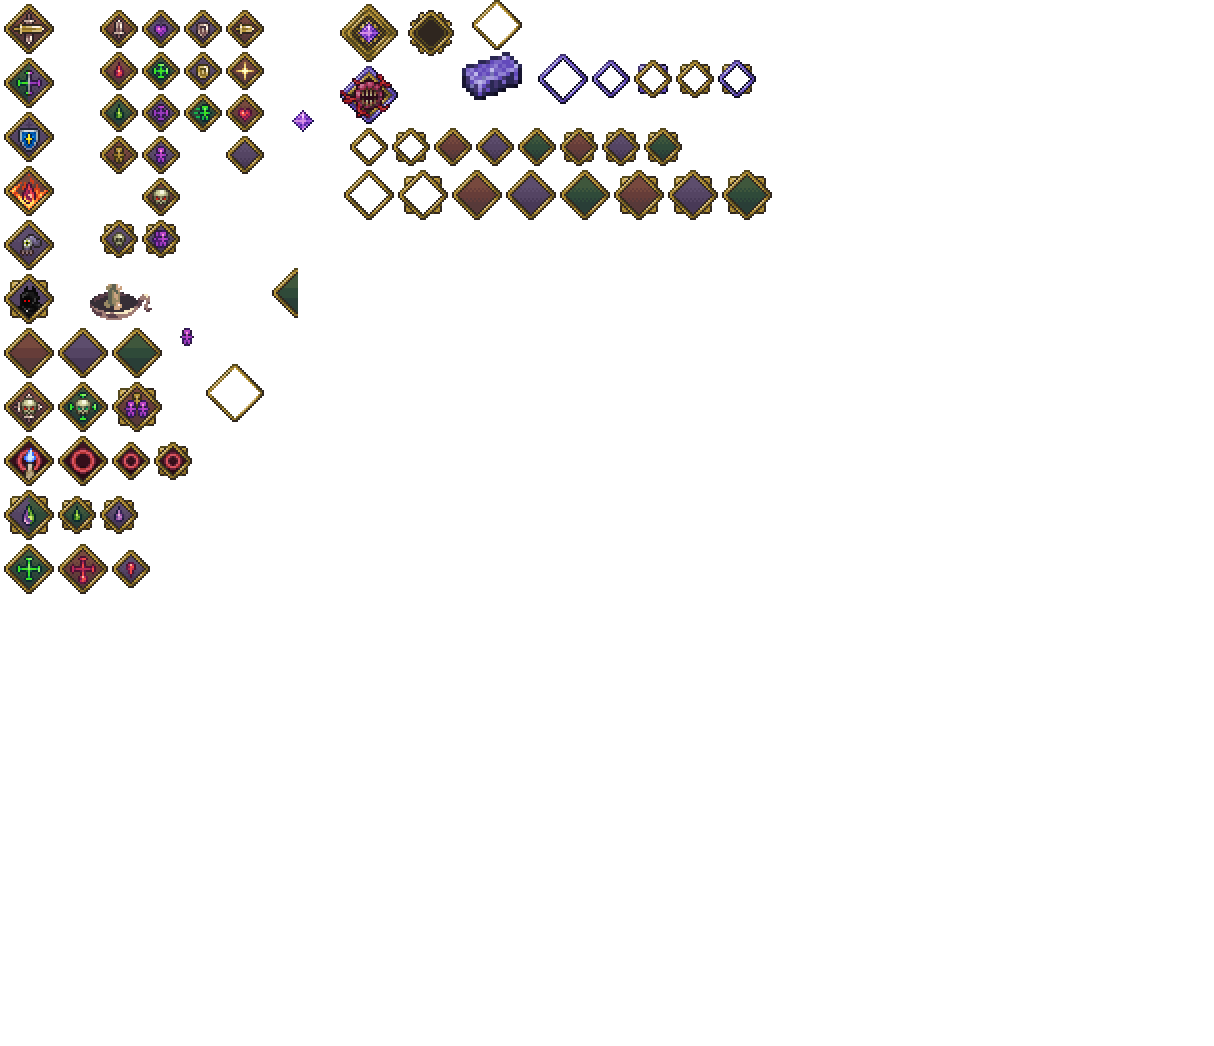
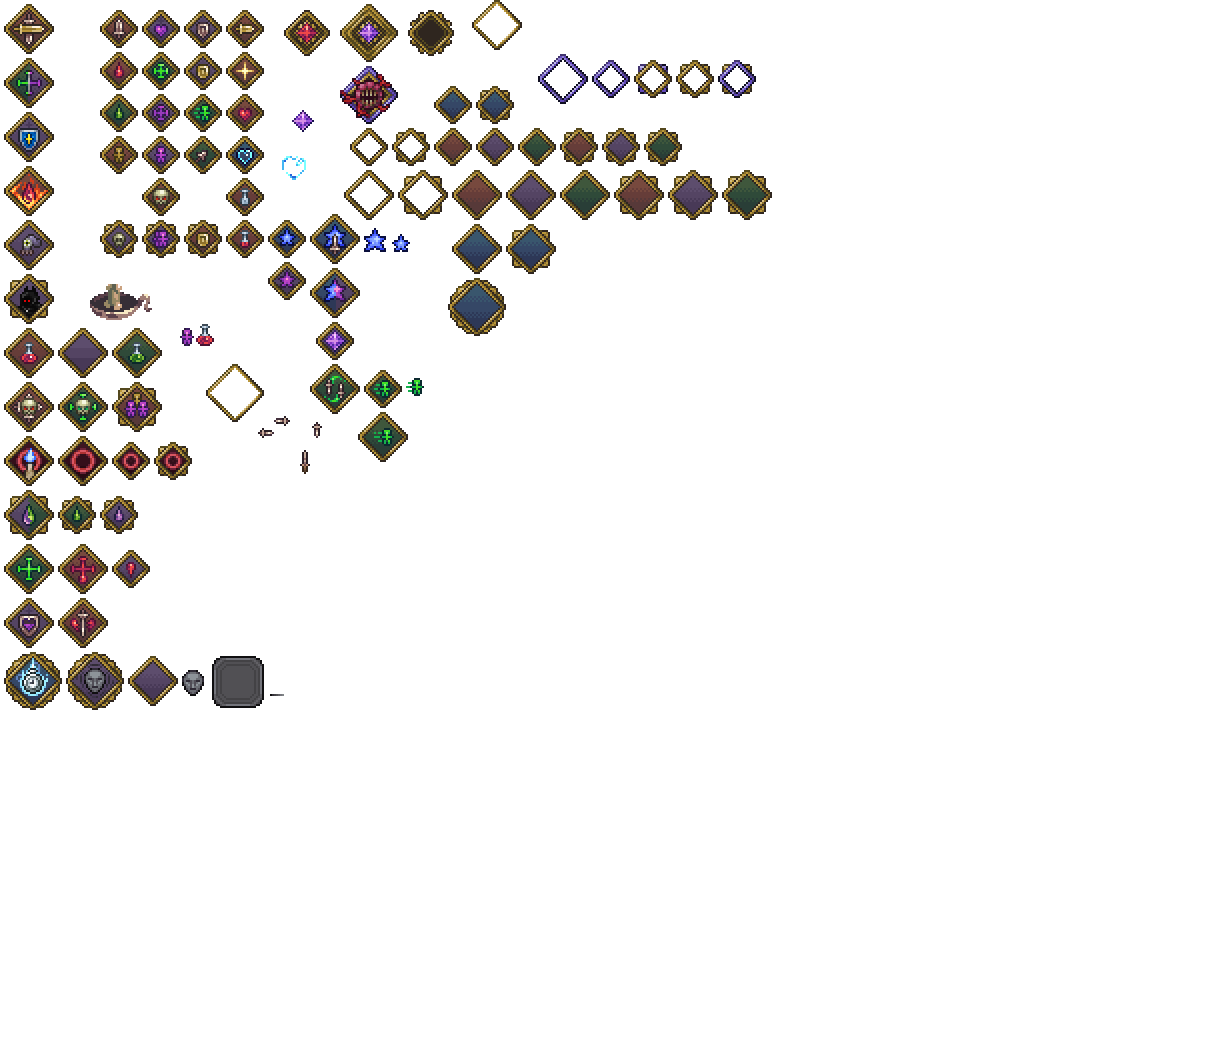
Darkness nodes

diff --git a/Content/Passives/Large/CreepingDarkness.cs b/Content/Passives/Large/CreepingDarkness.cs
@@ -1,0 +1,36 @@
+using Microsoft.Xna.Framework.Graphics;
+using System;
+using System.Collections.Generic;
+using System.Linq;
+using System.Text;
+using System.Threading.Tasks;
+using Umbra.Core;
+using Umbra.Core.PassiveTreeSystem;
+
+namespace Umbra.Content.Passives.Large
+{
+	internal class CreepingDarkness : Passive
+	{
+		public static int darkenAmount;
+
+		public override void SetDefaults()
+		{
+			texture = Assets.Passives.CreepingDarkness;
+			difficulty = 6;
+			size = 1;
+		}
+
+		public override void Update()
+		{
+			LightMultiplier.lightMultiplier -= darkenAmount / 300f * 0.1f;
+
+			var dark = Lighting.Brightness((int)Main.LocalPlayer.Center.X / 16, (int)Main.LocalPlayer.Center.Y / 16) < 0.1f;
+
+			if (dark && darkenAmount < 300)
+				darkenAmount++;
+
+			if (!dark && darkenAmount > 0)
+				darkenAmount--;
+		}
+	}
+}

diff --git a/Core/LightMultiplier.cs b/Core/LightMultiplier.cs
@@ -1,0 +1,24 @@
+using System;
+using System.Collections.Generic;
+using System.Linq;
+using System.Text;
+using System.Threading.Tasks;
+
+namespace Umbra.Core
+{
+	internal class LightMultiplier : ModSystem
+	{
+		public static float lightMultiplier;
+
+		public override void ModifyLightingBrightness(ref float scale)
+		{
+			scale += lightMultiplier;
+			lightMultiplier = 0f;
+		}
+
+		public override void PostUpdateEverything()
+		{
+			//lightMultiplier = 0f;
+		}
+	}
+}

diff --git a/Content/Passives/Darkness.cs b/Content/Passives/Darkness.cs
@@ -1,0 +1,24 @@
+using System;
+using System.Collections.Generic;
+using System.Linq;
+using System.Text;
+using System.Threading.Tasks;
+using Umbra.Core;
+using Umbra.Core.PassiveTreeSystem;
+
+namespace Umbra.Content.Passives
+{
+	internal class Darkness : Passive
+	{
+		public override void SetDefaults()
+		{
+			texture = Assets.Passives.Darkness;
+			difficulty = 1;
+		}
+
+		public override void Update()
+		{
+			LightMultiplier.lightMultiplier -= 0.005f;
+		}
+	}
+}

diff --git a/Content/Passives/Large/FlyingDaggers.cs b/Content/Passives/Large/FlyingDaggers.cs
@@ -23,7 +23,7 @@ namespace Umbra.Content.Passives.Large
 		public override void SetDefaults()
 		{
 			texture = Assets.Passives.FlyingDaggers;
-			difficulty = 20;
+			difficulty = 40;
 			size = 1;
 		}
 
